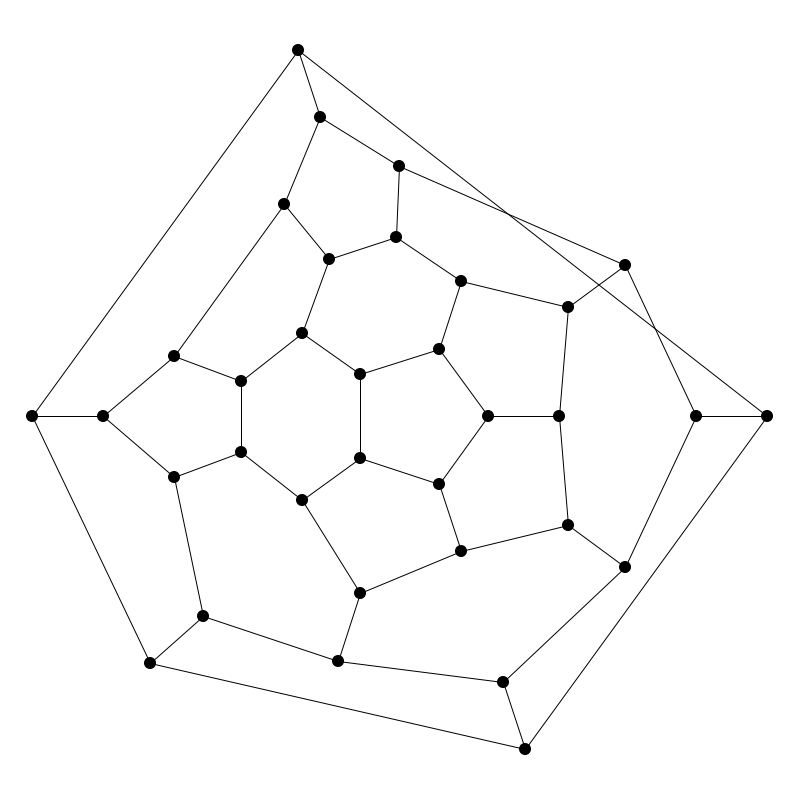
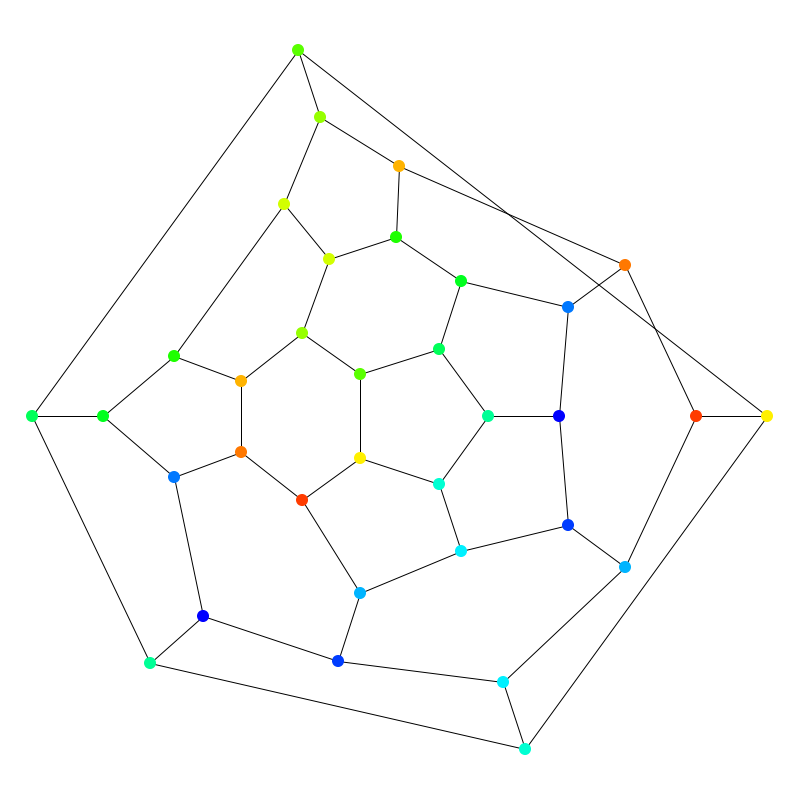
Lazy evaluation of all cyles to allow for larger examples; also copied/modified the ring plate generator

diff --git a/src/planar/CycleFinder.java b/src/planar/CycleFinder.java
@@ -4,6 +4,7 @@ import java.util.ArrayList;
 import java.util.BitSet;
 import java.util.Collections;
 import java.util.Comparator;
+import java.util.Iterator;
 import java.util.List;
 
 import planar.visitor.ConnectedComponentFinder;
@@ -17,6 +18,49 @@ import combinatorics.SubsetLister;
  * 
  */
 public class CycleFinder {
+    
+    public static Iterator<Block> getCycleStream(final Block block, final boolean checkConnected) {
+        List<Block> basis = getCycleBasis(new SpanningTree(block));
+        List<BitSet> baseSets = new ArrayList<BitSet>();
+        for (Block cycle : basis) {
+            BitSet bitSet = cycleToBitSet(cycle, block);
+            baseSets.add(bitSet);
+        }
+        SubsetLister<BitSet> lister = new SubsetLister<BitSet>(baseSets);
+        final Iterator<List<BitSet>> bitSetIterator = lister.iterator();
+        return new Iterator<Block>() {
+            
+            @Override
+            public boolean hasNext() {
+                return bitSetIterator.hasNext();
+            }
+
+            @Override
+            public Block next() {
+                Block nextCycle = null;
+                nextCycle = getNext();
+                if (checkConnected) {
+                    // not sure that this works, exactly...
+                    while (!isSimpleConnected(nextCycle) 
+                            && bitSetIterator.hasNext()) {
+                        nextCycle = getNext();
+                    }
+                }
+                return nextCycle;
+            }
+            
+            private Block getNext() {
+                List<BitSet> combination = bitSetIterator.next();
+                return CycleFinder.toCycle(combine(combination), block);
+            }
+
+            @Override
+            public void remove() {
+                // do nothing
+            }
+            
+        };
+    }
 
     public static Block getMaxCycle(Block block) {
         // XXX -assumes the graph is a block!
@@ -45,16 +89,23 @@ public class CycleFinder {
         }
         return maxCycle;
     }
+    
+    public static boolean isSimpleConnected(Block cycle) {
+        if (cycle.esize() == cycle.vsize()) {
+            ConnectedComponentFinder finder = new ConnectedComponentFinder();
+            cycle.accept(finder);
+            if (finder.getComponents().size() == 1) {
+                return true;
+            }
+        }
+        return false;
+    }
 
     public static List<Block> getSortedConnectedSimpleCycles(List<Block> cycles) {
         List<Block> connectedCycles = new ArrayList<Block>();
         for (Block cycle : cycles) {
-            if (cycle.esize() == cycle.vsize()) {
-                ConnectedComponentFinder finder = new ConnectedComponentFinder();
-                cycle.accept(finder);
-                if (finder.getComponents().size() == 1) {
-                    connectedCycles.add(cycle);
-                }
+            if (isSimpleConnected(cycle)) {
+                connectedCycles.add(cycle);
             }
         }
         Collections.sort(connectedCycles, new Comparator<Block>() {
@@ -65,13 +116,6 @@ public class CycleFinder {
             }
 
         });
-        // for (Block cycle : connectedCycles) {
-        // ConnectedComponentFinder finder = new ConnectedComponentFinder();
-        // cycle.accept(finder);
-        // finder.visit(cycle, cycle.getVertex(0));
-        // System.out.println(finder.getComponents().size()
-        // + "\t" + cycle + "\t" + finder.getComponents());
-        // }
         return connectedCycles;
     }
 
@@ -109,14 +153,6 @@ public class CycleFinder {
         expand(cycleBasis, allCycles, block);
         return allCycles;
     }
-
-    // private static void print(BitSet bitSet, Block cycle, Block graph) {
-    // for (int i = 0; i < graph.esize(); i++) {
-    // System.out.print(bitSet.get(i)? 1 : 0);
-    // }
-    // System.out.print(" " + cycle);
-    // System.out.println();
-    // }
 
     public static void expand(List<Block> basis, List<Block> all, Block graph) {
         List<BitSet> baseSets = new ArrayList<BitSet>();

diff --git a/src/util/RingPlateGenerator.java b/src/util/RingPlateGenerator.java
@@ -1,0 +1,106 @@
+package util;
+
+import java.awt.Color;
+import java.util.ArrayList;
+import java.util.List;
+
+import javax.vecmath.Point2d;
+import javax.vecmath.Vector2d;
+
+import org.openscience.cdk.geometry.GeometryTools;
+import org.openscience.cdk.interfaces.IAtom;
+import org.openscience.cdk.interfaces.IAtomContainer;
+import org.openscience.cdk.interfaces.IRingSet;
+import org.openscience.cdk.renderer.RendererModel;
+import org.openscience.cdk.renderer.elements.ElementGroup;
+import org.openscience.cdk.renderer.elements.GeneralPath;
+import org.openscience.cdk.renderer.elements.IRenderingElement;
+import org.openscience.cdk.renderer.elements.path.Close;
+import org.openscience.cdk.renderer.elements.path.LineTo;
+import org.openscience.cdk.renderer.elements.path.MoveTo;
+import org.openscience.cdk.renderer.elements.path.PathElement;
+import org.openscience.cdk.renderer.generators.IGenerator;
+import org.openscience.cdk.renderer.generators.IGeneratorParameter;
+import org.openscience.cdk.ringsearch.SSSRFinder;
+
+public class RingPlateGenerator implements IGenerator<IAtomContainer> {
+
+    @Override
+    public List<IGeneratorParameter<?>> getParameters() {
+        return new ArrayList<IGeneratorParameter<?>>();
+    }
+
+    @Override
+    public IRenderingElement generate(IAtomContainer atomContainer, RendererModel model) {
+        ElementGroup ringPaths = new ElementGroup();
+        SSSRFinder ringFinder = new SSSRFinder(atomContainer);
+        List<IRingSet> ringEqCl = ringFinder.findEquivalenceClasses();
+        int n = ringEqCl.size();
+        Color[] colors = new Color[n];
+        for (int i = 0; i < n; i++) {
+            colors[i] = colourRamp(i, 0, n);
+        }
+        int colorIndex = 0; 
+        for (IRingSet ringSet : ringEqCl) {
+            for (IAtomContainer ring : ringSet.atomContainers()) {
+                ringPaths.add(generateRing(ring, colors[colorIndex]));
+            }
+            colorIndex++;
+        }
+        return ringPaths;
+    }
+    
+    private GeneralPath generateRing(IAtomContainer atomContainer, Color color) {
+        Point2d center = GeometryTools.get2DCenter(atomContainer);
+        List<PathElement> pathElements = new ArrayList<PathElement>();
+        for (int index = 0; index < atomContainer.getAtomCount(); index++) {
+            IAtom atom = atomContainer.getAtom(index);
+            Point2d p = atom.getPoint2d();
+            Vector2d v = new Vector2d(center);
+            v.sub(p);
+            v.scaleAdd(0.2, v, p);
+            Point2d np = new Point2d(v);
+            if (index == 0) {
+                pathElements.add(new MoveTo(np));
+            } else {
+                pathElements.add(new LineTo(np));
+            }
+        }
+        pathElements.add(new Close());
+        GeneralPath genPath = new GeneralPath(pathElements, color);
+        return genPath;
+    }
+    
+    private Color colourRamp(int v, int vmin, int vmax) {
+        double r = 1.0;
+        double g = 1.0;
+        double b = 1.0;
+        if (v < vmin) { v = vmin; }
+        if (v > vmax) { v = vmax; }
+        int dv = vmax - vmin;
+
+        try  {
+            if (v < (vmin + 0.25 * dv)) {
+                r = 0.0;
+                g = 4.0 * (v - vmin) / dv;
+            } else if (v < (vmin + 0.5 * dv)) {
+                r = 0.0;
+                b = 1.0 + 4.0 * (vmin + 0.25 * dv - v) / dv;
+            } else if (v < (vmin + 0.75 * dv)) {
+                r = 4.0 * (v - vmin - 0.5  * dv) / dv;
+                b = 0.0;
+            } else {
+                g = 1.0 + 4.0 * (vmin + 0.75 * dv - v) / dv;
+                b = 0.0;
+            }
+            float[] hsb = Color.RGBtoHSB(
+                    (int)(r * 255), (int)(g * 255), (int)(b * 255), null);
+            return Color.getHSBColor(hsb[0], hsb[1], hsb[2]);
+        } catch (ArithmeticException zde) {
+            float[] hsb = Color.RGBtoHSB(0, 0, 0, null);
+            return Color.getHSBColor(hsb[0], hsb[1], hsb[2]);
+        }
+
+    }
+
+}

diff --git a/src/test/layout/Fullerenes.java b/src/test/layout/Fullerenes.java
@@ -48,6 +48,7 @@ import planar.BlockEmbedding;
 import planar.Face;
 import planar.Vertex;
 import util.MyAtomNumberGenerator;
+import util.RingPlateGenerator;
 import util.SignatureAtomColorer;
 
 public class Fullerenes {
@@ -115,6 +116,7 @@ public class Fullerenes {
         generators.add(new BasicSceneGenerator());
         generators.add(new BasicBondGenerator());
         generators.add(new BasicAtomGenerator());
+        generators.add(new RingPlateGenerator());
         if (numberAtoms) {
             generators.add(new MyAtomNumberGenerator());
         }
@@ -129,8 +131,8 @@ public class Fullerenes {
         if (numberAtoms) {
             renderer.getRenderer2DModel().set(MyAtomNumberGenerator.AtomNumberStartCount.class, 0);
         }
-        IAtomColorer colorer = new SignatureAtomColorer(ac);
-        renderer.getRenderer2DModel().set(BasicAtomGenerator.AtomColorer.class, colorer);
+//        IAtomColorer colorer = new SignatureAtomColorer(ac);
+//        renderer.getRenderer2DModel().set(BasicAtomGenerator.AtomColorer.class, colorer);
         fontManager.setFontForZoom(0.5);
         renderer.paint(ac, new AWTDrawVisitor(graphics), canvas, false);
         ImageIO.write((RenderedImage) image, "PNG", new FileOutputStream(file));
@@ -241,6 +243,31 @@ public class Fullerenes {
     @Test
     public void testC36() throws CDKException, IOException {
         layoutDir("C36");
+    }
+    
+    @Test
+    public void testC38() throws CDKException, IOException {
+        layoutDir("C38");
+    }
+    
+    @Test
+    public void testC40() throws CDKException, IOException {
+        layoutDir("C40");
+    }
+    
+    @Test
+    public void testC46() throws CDKException, IOException {
+        layoutDir("C46");
+    }
+    
+    @Test
+    public void testC50() throws CDKException, IOException {
+        layoutDir("C50");
+    }
+    
+    @Test
+    public void testC60_76() throws CDKException, IOException {
+        layoutDir("C60-76");
     }
     
     @Test

diff --git a/src/planar/PlanarBlockEmbedder.java b/src/planar/PlanarBlockEmbedder.java
@@ -1,6 +1,7 @@
 package planar;
 
 import java.util.ArrayList;
+import java.util.Iterator;
 import java.util.List;
 import java.util.Map;
 
@@ -38,28 +39,22 @@ public class PlanarBlockEmbedder {
     public static BlockEmbedding embed(Block blockToEmbed, IAtomContainer atomContainer) {
 //         System.out.println("embedding block");
         // find a circuit of G
-        List<Block> cycles = CycleFinder.findAll(blockToEmbed);
+//        List<Block> cycles = CycleFinder.findAll(blockToEmbed);
+//        
+//        cycles = CycleFinder.getSortedConnectedSimpleCycles(cycles);
         
-        cycles = CycleFinder.getSortedConnectedSimpleCycles(cycles);
-        // for (Block cycle : cycles) { System.out.println(cycle); }
-        int cycleIndex = 0;
-        Block circuit = cycles.get(cycleIndex);
-        BlockEmbedding embedding = null;
         // XXX this is not a great idea. We are trying all cycles here to embed
         // in, until we find one that works. If we allowed embedding of paths in
         // the the outer face, this would not be necessary...
-        int numberOfCycles = cycles.size();
-        while (embedding == null) {
-//            System.out.println("trying " + circuit);
-            embedding = embedInCycle(circuit, blockToEmbed, atomContainer);
-            cycleIndex++;
-            if (cycleIndex == numberOfCycles) {
-                break;
-            } else {
-                circuit = cycles.get(cycleIndex);
+        Iterator<Block> cycleStream = CycleFinder.getCycleStream(blockToEmbed, true); 
+        while (cycleStream.hasNext()) {
+            Block cycle = cycleStream.next();
+            BlockEmbedding embedding = embedInCycle(cycle, blockToEmbed, atomContainer);
+            if (embedding != null) {
+                return embedding;
             }
         }
-        return embedding;
+        return null;
     }
 
     /**

diff --git a/src/test/cycle/CycleFinderTest.java b/src/test/cycle/CycleFinderTest.java
@@ -1,0 +1,32 @@
+package test.cycle;
+
+import java.util.Iterator;
+
+import org.junit.Test;
+import org.openscience.cdk.DefaultChemObjectBuilder;
+import org.openscience.cdk.group.AtomContainerPrinter;
+import org.openscience.cdk.interfaces.IAtomContainer;
+import org.openscience.cdk.interfaces.IChemObjectBuilder;
+
+import planar.Block;
+import planar.CycleFinder;
+
+public class CycleFinderTest {
+    
+    public final static IChemObjectBuilder builder = DefaultChemObjectBuilder.getInstance();
+    
+    @Test
+    public void iterationTest() {
+        IAtomContainer atomContainer = AtomContainerPrinter.fromString(
+                "C0C1C2C3C4C5C6C7C8C9C0C1 0:1(1),0:3(1),0:4(1)," +
+                "1:2(1),1:5(1),2:3(1),2:6(1),3:7(1),4:8(1),4:11(1)," +
+                "5:8(1),5:9(1),6:9(1),6:10(1),7:10(1),7:11(1)", builder);
+        Block block = new Block(atomContainer);
+        Iterator<Block> cycles = CycleFinder.getCycleStream(block, true); 
+        while (cycles.hasNext()) {
+            Block cycle = cycles.next();
+            System.out.println(CycleFinder.isSimpleConnected(cycle) + "\t" + cycle);
+        }
+    }
+
+}
